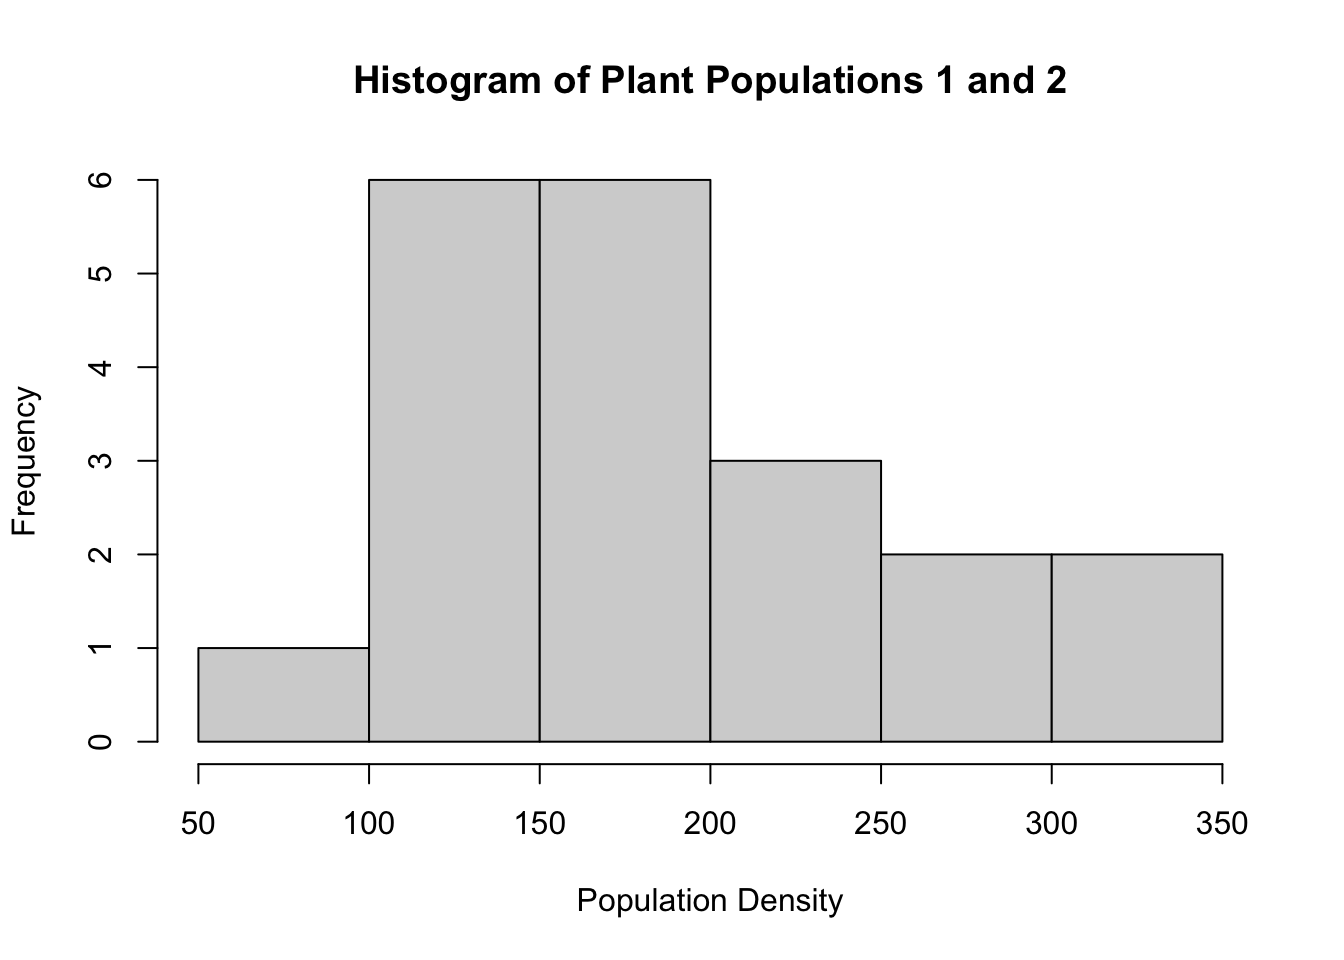
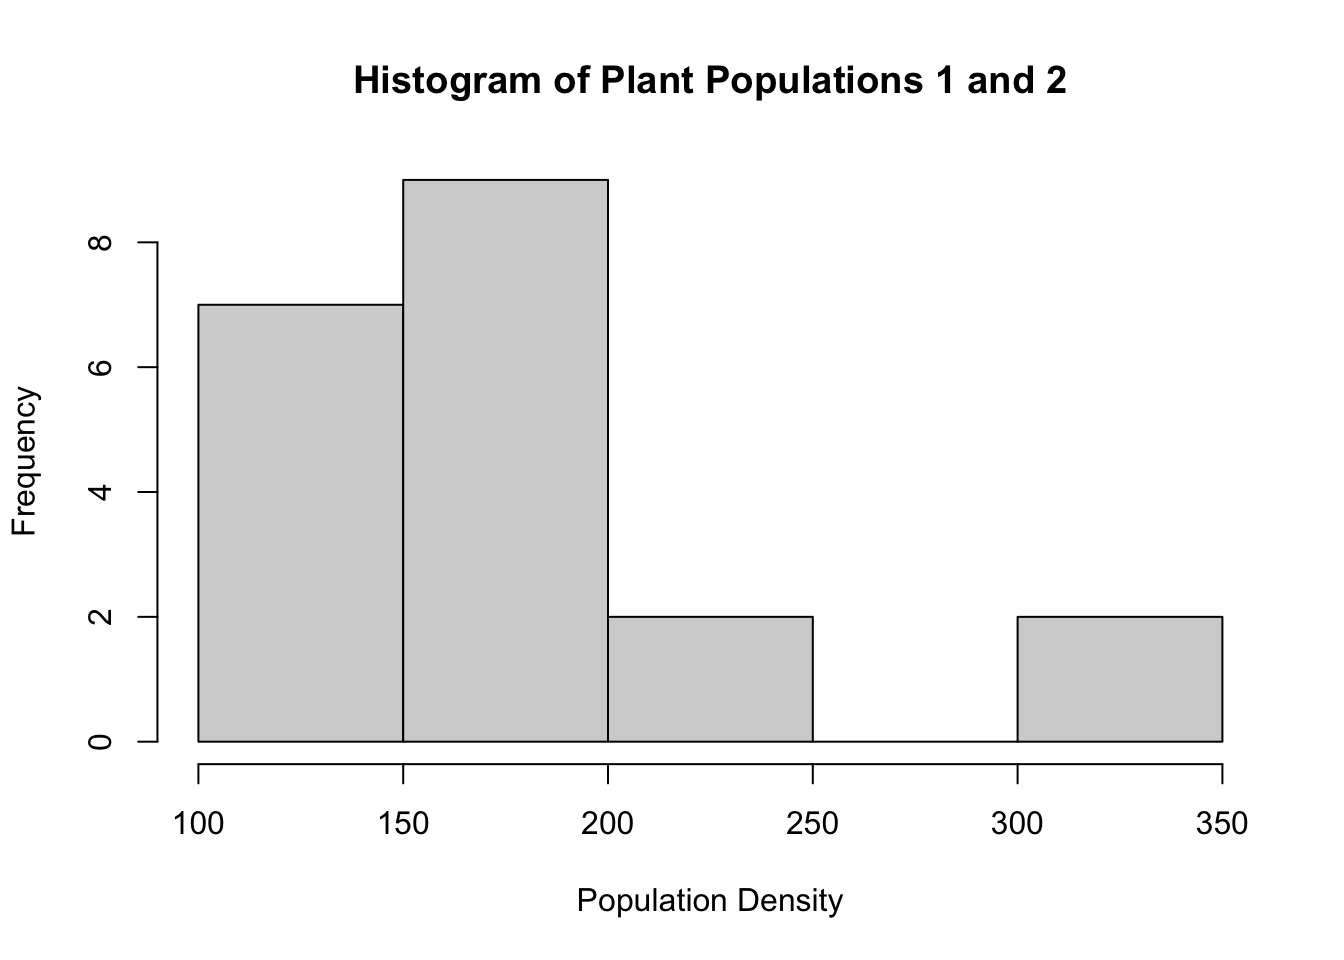
homework 8 upload

diff --git a/docs/homework6.html b/docs/homework6.html
@@ -281,36 +281,36 @@ northeast.</p>
 plantpopulation2 &lt;- rnorm(n=10, mean = 200, sd = 50)
 summary(plantpopulation1)</code></pre>
 <pre><code>##    Min. 1st Qu.  Median    Mean 3rd Qu.    Max. 
-##   142.1   148.4   151.5   158.1   172.9   176.6</code></pre>
+##   131.0   140.4   155.0   153.8   165.9   173.6</code></pre>
 <pre class="r"><code>summary(plantpopulation2)</code></pre>
 <pre><code>##    Min. 1st Qu.  Median    Mean 3rd Qu.    Max. 
-##    78.3   195.0   221.9   222.1   266.6   325.8</code></pre>
+##   125.3   158.3   188.2   206.8   229.1   320.2</code></pre>
 <p>Putting it into a data frame:</p>
 <pre class="r"><code>Plant_Populations &lt;- c(plantpopulation1, plantpopulation2)
 Group_Name &lt;- c(rep(&quot;Plant_Population_1&quot;, length(plantpopulation1)),rep(&quot;Plant_Population_2&quot;,length(plantpopulation2)))
 plant_df &lt;- data.frame(Plant_Populations, Group_Name)
 print(plant_df)</code></pre>
 <pre><code>##    Plant_Populations         Group_Name
-## 1          153.54623 Plant_Population_1
-## 2          149.43444 Plant_Population_1
-## 3          172.58439 Plant_Population_1
-## 4          143.38627 Plant_Population_1
-## 5          172.99875 Plant_Population_1
-## 6          148.84810 Plant_Population_1
-## 7          173.52477 Plant_Population_1
-## 8          176.56323 Plant_Population_1
-## 9          148.22976 Plant_Population_1
-## 10         142.09155 Plant_Population_1
-## 11          78.30419 Plant_Population_2
-## 12         325.79661 Plant_Population_2
-## 13         209.59131 Plant_Population_2
-## 14         259.44113 Plant_Population_2
-## 15         323.82776 Plant_Population_2
-## 16         231.94915 Plant_Population_2
-## 17         211.87635 Plant_Population_2
-## 18         190.09649 Plant_Population_2
-## 19         120.68509 Plant_Population_2
-## 20         268.99524 Plant_Population_2</code></pre>
+## 1           164.1505 Plant_Population_1
+## 2           147.2787 Plant_Population_1
+## 3           131.0171 Plant_Population_1
+## 4           139.2895 Plant_Population_1
+## 5           166.4850 Plant_Population_1
+## 6           162.8188 Plant_Population_1
+## 7           137.8775 Plant_Population_1
+## 8           173.5664 Plant_Population_1
+## 9           171.6271 Plant_Population_1
+## 10          143.7606 Plant_Population_1
+## 11          229.6151 Plant_Population_2
+## 12          177.9011 Plant_Population_2
+## 13          179.3114 Plant_Population_2
+## 14          141.2473 Plant_Population_2
+## 15          227.5949 Plant_Population_2
+## 16          197.1202 Plant_Population_2
+## 17          125.2531 Plant_Population_2
+## 18          151.8216 Plant_Population_2
+## 19          320.2477 Plant_Population_2
+## 20          317.9643 Plant_Population_2</code></pre>
 <p>Plotting the data</p>
 <pre class="r"><code>boxplot(Plant_Populations~Group_Name,data=plant_df, main=&quot;Alpine Plant Population Density&quot;,
         xlab=&quot;Plant Groups&quot;, ylab=&quot;Population Size&quot;)</code></pre>
@@ -335,30 +335,30 @@ for (i in n_iterations){
   cat(&quot;Iteration=&quot;,i,&quot;P-value=&quot;)
 print(test_result$p.value)
 }</code></pre>
-<pre><code>## Iteration= 1 P-value=[1] 0.0006611911
-## Iteration= 2 P-value=[1] 0.009753512
-## Iteration= 3 P-value=[1] 0.01357748
-## Iteration= 4 P-value=[1] 0.2331088
-## Iteration= 5 P-value=[1] 0.0009211153
-## Iteration= 6 P-value=[1] 0.0009953496
-## Iteration= 7 P-value=[1] 0.1478954
-## Iteration= 8 P-value=[1] 0.01037348
-## Iteration= 9 P-value=[1] 0.002711687
-## Iteration= 10 P-value=[1] 0.004646042
-## Iteration= 11 P-value=[1] 7.582555e-05
-## Iteration= 12 P-value=[1] 0.002641124
-## Iteration= 13 P-value=[1] 0.006243736
-## Iteration= 14 P-value=[1] 0.1575119
-## Iteration= 15 P-value=[1] 0.07029946
-## Iteration= 16 P-value=[1] 5.899217e-06
-## Iteration= 17 P-value=[1] 0.3653785
-## Iteration= 18 P-value=[1] 0.007125651
-## Iteration= 19 P-value=[1] 0.03125585
-## Iteration= 20 P-value=[1] 0.06599841</code></pre>
+<pre><code>## Iteration= 1 P-value=[1] 0.01160039
+## Iteration= 2 P-value=[1] 0.001660172
+## Iteration= 3 P-value=[1] 0.0002260344
+## Iteration= 4 P-value=[1] 0.3747879
+## Iteration= 5 P-value=[1] 0.009259231
+## Iteration= 6 P-value=[1] 0.0003054609
+## Iteration= 7 P-value=[1] 0.004991431
+## Iteration= 8 P-value=[1] 0.0004566444
+## Iteration= 9 P-value=[1] 0.02916881
+## Iteration= 10 P-value=[1] 0.01796311
+## Iteration= 11 P-value=[1] 0.006229139
+## Iteration= 12 P-value=[1] 0.006806506
+## Iteration= 13 P-value=[1] 0.003242415
+## Iteration= 14 P-value=[1] 0.09933486
+## Iteration= 15 P-value=[1] 0.01905358
+## Iteration= 16 P-value=[1] 0.04176854
+## Iteration= 17 P-value=[1] 0.001773313
+## Iteration= 18 P-value=[1] 0.1793215
+## Iteration= 19 P-value=[1] 0.01256326
+## Iteration= 20 P-value=[1] 0.0807124</code></pre>
 <p>From the 20 iterations above, I determined that several have a
 p-value of &lt; 0.05 (which changes every time I run the for loop).</p>
 <pre class="r"><code>which(n_iterations &lt; 0.05)</code></pre>
-<pre><code>##  [1]  1  2  3  5  6  8  9 10 11 12 13 16 18 19</code></pre>
+<pre><code>##  [1]  1  2  3  5  6  7  8  9 10 11 12 13 15 16 17 19</code></pre>
 <p>Here I am running the same for loop but I changed the sample size to
 5.</p>
 <pre class="r"><code>n_iterations &lt;- 1:20
@@ -374,31 +374,31 @@ for (i in n_iterations){
   cat(&quot;Iteration=&quot;,i,&quot;P-value=&quot;)
 print(test_result$p.value)
 }</code></pre>
-<pre><code>## Iteration= 1 P-value=[1] 0.5914883
-## Iteration= 2 P-value=[1] 0.07547874
-## Iteration= 3 P-value=[1] 0.1182645
-## Iteration= 4 P-value=[1] 0.07391643
-## Iteration= 5 P-value=[1] 0.01605873
-## Iteration= 6 P-value=[1] 0.04096276
-## Iteration= 7 P-value=[1] 0.3915603
-## Iteration= 8 P-value=[1] 0.09745995
-## Iteration= 9 P-value=[1] 0.3252415
-## Iteration= 10 P-value=[1] 0.04209412
-## Iteration= 11 P-value=[1] 0.04450027
-## Iteration= 12 P-value=[1] 0.1406846
-## Iteration= 13 P-value=[1] 0.004415697
-## Iteration= 14 P-value=[1] 0.122951
-## Iteration= 15 P-value=[1] 0.2481722
-## Iteration= 16 P-value=[1] 0.05652193
-## Iteration= 17 P-value=[1] 0.01793776
-## Iteration= 18 P-value=[1] 0.1552073
-## Iteration= 19 P-value=[1] 0.2699335
-## Iteration= 20 P-value=[1] 0.4282987</code></pre>
+<pre><code>## Iteration= 1 P-value=[1] 0.6601601
+## Iteration= 2 P-value=[1] 0.2307796
+## Iteration= 3 P-value=[1] 0.008580295
+## Iteration= 4 P-value=[1] 0.1207252
+## Iteration= 5 P-value=[1] 0.01482009
+## Iteration= 6 P-value=[1] 0.05277157
+## Iteration= 7 P-value=[1] 0.002358696
+## Iteration= 8 P-value=[1] 0.2234159
+## Iteration= 9 P-value=[1] 0.005353672
+## Iteration= 10 P-value=[1] 0.1049506
+## Iteration= 11 P-value=[1] 0.007190131
+## Iteration= 12 P-value=[1] 0.6080643
+## Iteration= 13 P-value=[1] 0.0557898
+## Iteration= 14 P-value=[1] 0.4341676
+## Iteration= 15 P-value=[1] 0.009116209
+## Iteration= 16 P-value=[1] 0.0326965
+## Iteration= 17 P-value=[1] 0.3901281
+## Iteration= 18 P-value=[1] 0.1886681
+## Iteration= 19 P-value=[1] 0.04167748
+## Iteration= 20 P-value=[1] 0.08312717</code></pre>
 <p>Again, from the 20 iterations above with a sample size of 5, I
 determined that several have a p-value of &lt; 0.05 (which changes every
 time I run the for loop).</p>
 <pre class="r"><code>which(n_iterations &lt; 0.05)</code></pre>
-<pre><code>## [1]  5  6 10 11 13 17</code></pre>
+<pre><code>## [1]  3  5  7  9 11 15 16 19</code></pre>
 <p>Continuing to use this for loop, I have determined that the smallest
 sample size that is still statistically significant is 2, which is
 rather shocking. Evidence below!</p>
@@ -415,28 +415,28 @@ for (i in n_iterations){
   cat(&quot;Iteration=&quot;,i,&quot;P-value=&quot;)
 print(test_result$p.value)
 }</code></pre>
-<pre><code>## Iteration= 1 P-value=[1] 0.02987558
-## Iteration= 2 P-value=[1] 0.0971614
-## Iteration= 3 P-value=[1] 0.1185699
-## Iteration= 4 P-value=[1] 0.572452
-## Iteration= 5 P-value=[1] 0.640344
-## Iteration= 6 P-value=[1] 0.8143189
-## Iteration= 7 P-value=[1] 0.7815784
-## Iteration= 8 P-value=[1] 0.5122027
-## Iteration= 9 P-value=[1] 0.8967792
-## Iteration= 10 P-value=[1] 0.2467931
-## Iteration= 11 P-value=[1] 0.07569514
-## Iteration= 12 P-value=[1] 0.6587943
-## Iteration= 13 P-value=[1] 0.4771237
-## Iteration= 14 P-value=[1] 0.6705033
-## Iteration= 15 P-value=[1] 0.05141919
-## Iteration= 16 P-value=[1] 0.456408
-## Iteration= 17 P-value=[1] 0.05302948
-## Iteration= 18 P-value=[1] 0.137276
-## Iteration= 19 P-value=[1] 0.2829937
-## Iteration= 20 P-value=[1] 0.05131062</code></pre>
+<pre><code>## Iteration= 1 P-value=[1] 0.09823065
+## Iteration= 2 P-value=[1] 0.5841877
+## Iteration= 3 P-value=[1] 0.482703
+## Iteration= 4 P-value=[1] 0.0893566
+## Iteration= 5 P-value=[1] 0.7202781
+## Iteration= 6 P-value=[1] 0.8670363
+## Iteration= 7 P-value=[1] 0.1035026
+## Iteration= 8 P-value=[1] 0.8530674
+## Iteration= 9 P-value=[1] 0.09415886
+## Iteration= 10 P-value=[1] 0.3488871
+## Iteration= 11 P-value=[1] 0.1769683
+## Iteration= 12 P-value=[1] 0.3598721
+## Iteration= 13 P-value=[1] 0.08652103
+## Iteration= 14 P-value=[1] 0.3240199
+## Iteration= 15 P-value=[1] 0.7068822
+## Iteration= 16 P-value=[1] 0.5413425
+## Iteration= 17 P-value=[1] 0.80233
+## Iteration= 18 P-value=[1] 0.0414666
+## Iteration= 19 P-value=[1] 0.3305241
+## Iteration= 20 P-value=[1] 0.01246671</code></pre>
 <pre class="r"><code>which(n_iterations &lt; 0.05)</code></pre>
-<pre><code>## [1] 1</code></pre>
+<pre><code>## [1] 18 20</code></pre>
 
 
 

diff --git a/docs/homework5.html b/docs/homework5.html
@@ -284,20 +284,22 @@ square matrix with these elements. Print out the matrix.</p>
 <p>Find a function in r to transpose the matrix. Print it out again and
 note how it has changed.</p>
 <pre class="r"><code>print(t(matrix1))</code></pre>
-<pre><code>##      [,1] [,2] [,3]
-## [1,]    4    8    6
-## [2,]    7    3    5
-## [3,]    2    1    9</code></pre>
+<pre><code>##      [,1] [,2] [,3] [,4] [,5]
+## [1,]   10    7   23   25   12
+## [2,]   11   18    2   15   19
+## [3,]    9   21   24    6    3
+## [4,]    5   17   20    4    1
+## [5,]   14   22   16    8   13</code></pre>
 <p>Calculate the sum and the mean of the elements in the first row and
 then the last row.</p>
 <pre class="r"><code>mean(matrix1[1,])</code></pre>
-<pre><code>## [1] 4.333333</code></pre>
+<pre><code>## [1] 9.8</code></pre>
 <pre class="r"><code>sum(matrix1[1,])</code></pre>
-<pre><code>## [1] 13</code></pre>
+<pre><code>## [1] 49</code></pre>
 <pre class="r"><code>mean(matrix1[2,])</code></pre>
-<pre><code>## [1] 4</code></pre>
+<pre><code>## [1] 17</code></pre>
 <pre class="r"><code>sum(matrix1[2,])</code></pre>
-<pre><code>## [1] 12</code></pre>
+<pre><code>## [1] 85</code></pre>
 <p>Read about the eigen() function and use it on your matrix. Look
 carefully at the elements of $values and $vectors in the output. What
 kind of numbers are these?</p>
@@ -305,18 +307,27 @@ kind of numbers are these?</p>
 print(matrix_eigen)</code></pre>
 <pre><code>## eigen() decomposition
 ## $values
-## [1] 14.229691  5.781525 -4.011216
+## [1] 64.400374+0.000000i  5.390575+6.678550i  5.390575-6.678550i
+## [4] -3.090762+2.685548i -3.090762-2.685548i
 ## 
 ## $vectors
-##           [,1]       [,2]        [,3]
-## [1,] 0.4156940 -0.2263863  0.66013725
-## [2,] 0.3701206 -0.3204233 -0.75097823
-## [3,] 0.8307884  0.9198251 -0.01582729</code></pre>
+##               [,1]                   [,2]                   [,3]
+## [1,] -0.3288636+0i -0.1044556+0.09885836i -0.1044556-0.09885836i
+## [2,] -0.5899417+0i  0.1191556-0.30519676i  0.1191556+0.30519676i
+## [3,] -0.5367097+0i  0.7405763+0.00000000i  0.7405763+0.00000000i
+## [4,] -0.3801221+0i -0.1608553+0.05347414i -0.1608553-0.05347414i
+## [5,] -0.3335677+0i -0.5250266+0.13832153i -0.5250266-0.13832153i
+##                         [,4]                    [,5]
+## [1,] -0.01678384-0.04409725i -0.01678384+0.04409725i
+## [2,]  0.23223104-0.12153029i  0.23223104+0.12153029i
+## [3,]  0.65213805+0.00000000i  0.65213805+0.00000000i
+## [4,] -0.59532291+0.06108309i -0.59532291-0.06108309i
+## [5,] -0.36493077+0.11168646i -0.36493077-0.11168646i</code></pre>
 <p>Dig in with the typeof() function to figure out their type.</p>
 <pre class="r"><code>typeof(matrix_eigen$values)</code></pre>
-<pre><code>## [1] &quot;double&quot;</code></pre>
+<pre><code>## [1] &quot;complex&quot;</code></pre>
 <pre class="r"><code>typeof(matrix_eigen$vectors)</code></pre>
-<pre><code>## [1] &quot;double&quot;</code></pre>
+<pre><code>## [1] &quot;complex&quot;</code></pre>
 <p><u>Question 2:</u> Create a list with the following named
 elements:</p>
 <p>my_matrix, which is a 4 x 4 matrix filled with random uniform
@@ -324,30 +335,30 @@ values</p>
 <pre class="r"><code>my_matrix &lt;- matrix(data=runif(16), nrow=4)
 print(my_matrix)</code></pre>
 <pre><code>##           [,1]      [,2]       [,3]      [,4]
-## [1,] 0.7179933 0.8555319 0.01870619 0.2329499
-## [2,] 0.6627853 0.2284448 0.44831101 0.6633043
-## [3,] 0.8643572 0.1510975 0.94129602 0.8571178
-## [4,] 0.5111155 0.5992460 0.24025464 0.4036374</code></pre>
+## [1,] 0.8037456 0.9977180 0.04649222 0.4099479
+## [2,] 0.3688865 0.7159934 0.39316144 0.7328678
+## [3,] 0.8208870 0.1466226 0.83307755 0.1433336
+## [4,] 0.6449688 0.6120727 0.32544818 0.3525762</code></pre>
 <p>my_logical which is a 100-element vector of TRUE or FALSE values. Do
 this efficiently by setting up a vector of random values and then
 applying an inequality to it.</p>
 <pre class="r"><code>my_logical &lt;- (runif(100) &gt; .8)
 print(my_logical)</code></pre>
-<pre><code>##   [1] FALSE FALSE FALSE FALSE  TRUE FALSE FALSE FALSE FALSE FALSE  TRUE  TRUE
-##  [13]  TRUE FALSE FALSE FALSE FALSE FALSE FALSE FALSE FALSE FALSE FALSE FALSE
-##  [25] FALSE FALSE FALSE FALSE  TRUE FALSE FALSE FALSE FALSE  TRUE FALSE FALSE
-##  [37] FALSE FALSE  TRUE FALSE  TRUE FALSE FALSE FALSE FALSE FALSE  TRUE FALSE
-##  [49] FALSE FALSE FALSE FALSE FALSE FALSE  TRUE FALSE FALSE FALSE FALSE FALSE
-##  [61] FALSE FALSE FALSE FALSE FALSE FALSE FALSE  TRUE FALSE FALSE  TRUE FALSE
-##  [73] FALSE FALSE FALSE FALSE FALSE  TRUE FALSE FALSE FALSE FALSE FALSE FALSE
-##  [85] FALSE FALSE FALSE FALSE FALSE FALSE FALSE FALSE FALSE FALSE FALSE FALSE
+<pre><code>##   [1] FALSE FALSE FALSE FALSE FALSE FALSE  TRUE FALSE  TRUE FALSE  TRUE FALSE
+##  [13] FALSE FALSE  TRUE FALSE FALSE FALSE FALSE FALSE FALSE FALSE FALSE FALSE
+##  [25] FALSE FALSE  TRUE FALSE FALSE FALSE  TRUE FALSE  TRUE FALSE FALSE FALSE
+##  [37]  TRUE FALSE FALSE FALSE  TRUE FALSE  TRUE FALSE FALSE FALSE FALSE FALSE
+##  [49]  TRUE FALSE FALSE FALSE FALSE FALSE FALSE FALSE FALSE FALSE FALSE FALSE
+##  [61] FALSE FALSE FALSE FALSE FALSE FALSE FALSE FALSE FALSE FALSE  TRUE FALSE
+##  [73] FALSE  TRUE FALSE FALSE FALSE FALSE FALSE FALSE FALSE FALSE FALSE FALSE
+##  [85] FALSE FALSE  TRUE FALSE FALSE FALSE FALSE FALSE FALSE FALSE FALSE FALSE
 ##  [97] FALSE FALSE FALSE  TRUE</code></pre>
 <p>my_letters, which is a 26-element vector of all the lower-case
 letters in random order.</p>
 <pre class="r"><code>my_letters &lt;- sample(letters[1:26])
 print(my_letters)</code></pre>
-<pre><code>##  [1] &quot;y&quot; &quot;v&quot; &quot;r&quot; &quot;h&quot; &quot;b&quot; &quot;u&quot; &quot;f&quot; &quot;p&quot; &quot;g&quot; &quot;i&quot; &quot;n&quot; &quot;z&quot; &quot;d&quot; &quot;o&quot; &quot;x&quot; &quot;s&quot; &quot;e&quot; &quot;c&quot; &quot;a&quot;
-## [20] &quot;j&quot; &quot;q&quot; &quot;m&quot; &quot;t&quot; &quot;w&quot; &quot;l&quot; &quot;k&quot;</code></pre>
+<pre><code>##  [1] &quot;b&quot; &quot;c&quot; &quot;z&quot; &quot;p&quot; &quot;f&quot; &quot;s&quot; &quot;v&quot; &quot;h&quot; &quot;a&quot; &quot;n&quot; &quot;g&quot; &quot;u&quot; &quot;d&quot; &quot;t&quot; &quot;w&quot; &quot;l&quot; &quot;m&quot; &quot;j&quot; &quot;e&quot;
+## [20] &quot;o&quot; &quot;k&quot; &quot;q&quot; &quot;i&quot; &quot;x&quot; &quot;y&quot; &quot;r&quot;</code></pre>
 <p>Create a new list, which has the element[2,2] from the matrix, the
 second element of the logical vector, and the second element of the
 letters vector.</p>
@@ -367,7 +378,7 @@ atomic vector with the c() function. What is the data type of this
 vector?</p>
 <pre class="r"><code>combined_elements_vector &lt;- c(new_list[[1]], new_list[[2]], new_list[[3]])
 print(combined_elements_vector)</code></pre>
-<pre><code>## [1] &quot;0.228444766253233&quot; &quot;FALSE&quot;             &quot;v&quot;</code></pre>
+<pre><code>## [1] &quot;0.715993418358266&quot; &quot;FALSE&quot;             &quot;c&quot;</code></pre>
 <pre class="r"><code>typeof(combined_elements_vector)</code></pre>
 <pre><code>## [1] &quot;character&quot;</code></pre>
 <p><u>Question 3:</u> Create a data frame with the two variables (=
@@ -382,7 +393,7 @@ random rows and replace the numerical values in those rows with NA.</p>
 <p>For the first variable, write a single line of R code to identify
 which rows have the missing values.</p>
 <pre class="r"><code>print(which(is.na(dataframe$my_unis)))</code></pre>
-<pre><code>## [1] 1 3 4 5</code></pre>
+<pre><code>## [1] 5 8 9</code></pre>
 <p>Re-order the entire data frame to arrange the second variable in
 alphabetical order</p>
 <pre class="r"><code>dataframe[order(dataframe$my_letters),2]</code></pre>
@@ -390,7 +401,7 @@ alphabetical order</p>
 ## [20] &quot;T&quot; &quot;U&quot; &quot;V&quot; &quot;W&quot; &quot;X&quot; &quot;Y&quot; &quot;Z&quot;</code></pre>
 <p>Calculate the column mean for the first variable.</p>
 <pre class="r"><code>mean(dataframe$my_unis, na.rm=TRUE)</code></pre>
-<pre><code>## [1] 4.098367</code></pre>
+<pre><code>## [1] 5.365885</code></pre>
 
 
 

diff --git a/docs/homework7.html b/docs/homework7.html
@@ -274,13 +274,13 @@ the dplyr Package</u></h1>
 
 
 <pre class="r"><code>library(tidyverse)</code></pre>
-<pre><code>## ── Attaching core tidyverse packages ────────────────────────────────────────────────────────────────────────────── tidyverse 2.0.0 ──
+<pre><code>## ── Attaching core tidyverse packages ────────────────────────────────── tidyverse 2.0.0 ──
 ## ✔ dplyr     1.1.4     ✔ readr     2.1.5
 ## ✔ forcats   1.0.0     ✔ stringr   1.5.1
 ## ✔ ggplot2   3.5.1     ✔ tibble    3.2.1
 ## ✔ lubridate 1.9.3     ✔ tidyr     1.3.1
 ## ✔ purrr     1.0.2     
-## ── Conflicts ──────────────────────────────────────────────────────────────────────────────────────────────── tidyverse_conflicts() ──
+## ── Conflicts ──────────────────────────────────────────────────── tidyverse_conflicts() ──
 ## ✖ dplyr::filter() masks stats::filter()
 ## ✖ dplyr::lag()    masks stats::lag()
 ## ℹ Use the conflicted package (&lt;http://conflicted.r-lib.org/&gt;) to force all conflicts to become errors</code></pre>

diff --git a/docs/homework4.html b/docs/homework4.html
@@ -322,12 +322,12 @@ that has been mapped). Using one of R’s inverse trigonometry functions
 coordinates.</p>
 <pre class="r"><code>cartesian_coords &lt;- runif(2)
 print(cartesian_coords)</code></pre>
-<pre><code>## [1] 0.6735196 0.3205393</code></pre>
+<pre><code>## [1] 0.8836916 0.3581509</code></pre>
 <pre class="r"><code>r &lt;- sqrt(cartesian_coords[1])^2 + (cartesian_coords[2])^2
 theta &lt;- atan(cartesian_coords[2]/cartesian_coords[1])
 polar_coords &lt;- c(r, theta)
 print(polar_coords)</code></pre>
-<pre><code>## [1] 0.7762651 0.4441961</code></pre>
+<pre><code>## [1] 1.0119637 0.3850579</code></pre>
 <p><u>Question 4:</u> Create a vector queue &lt;- c(“sheep”, “fox”,
 “owl”, “ant”) where queue represents the animals that are lined up to
 enter Noah’s Ark, with the sheep at the front of the line. Using R
